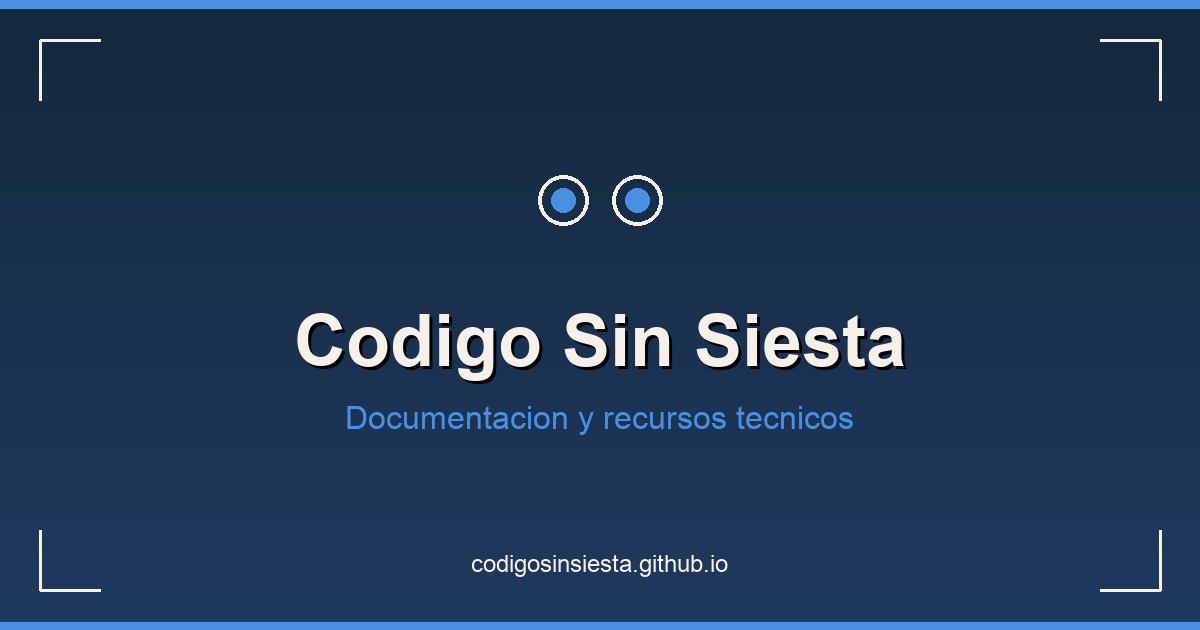
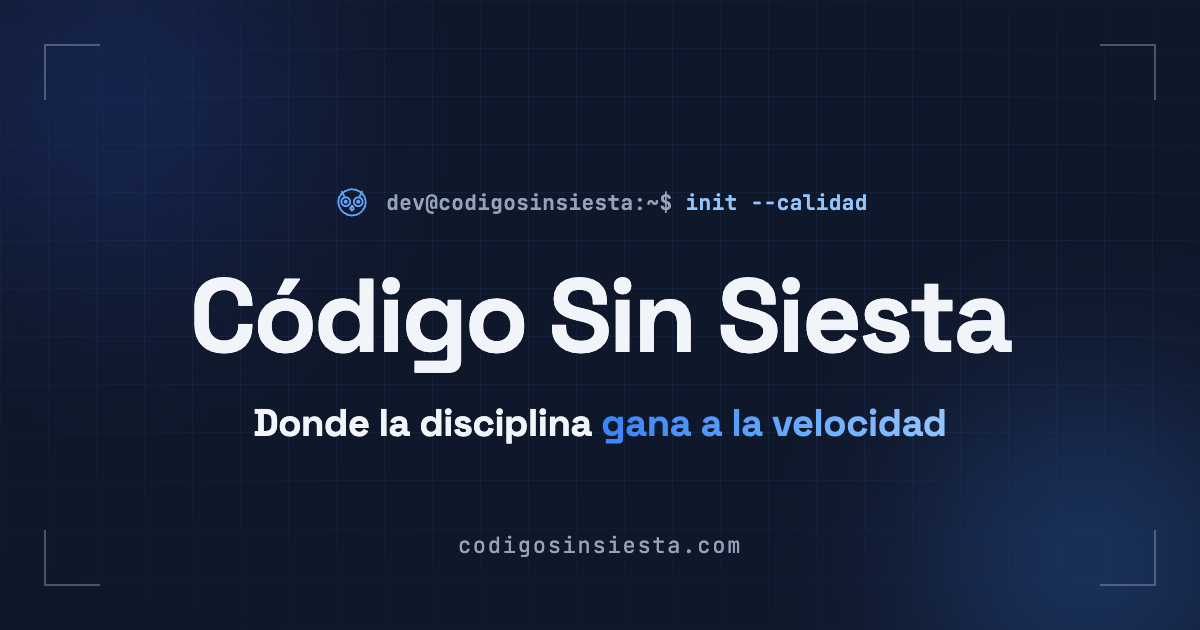
feat: actualiza la tarjeta social (Open Graph) a la identidad V4
La tarjeta og-card.png estaba congelada en la identidad antigua:
marca sin tildes ("Codigo Sin Siesta"), claim incorrecto
("Documentacion y recursos tecnicos") y dominio obsoleto
(codigosinsiesta.github.io en vez de codigosinsiesta.com).

- Regenera public/og-card.png con la identidad "dark blueprint" V4:
  Código Sin Siesta + claim canónico de site.ts + dominio .com,
  logo búho line-art, grid blueprint, Space Grotesk + JetBrains Mono.
- Añade scripts/og-card/ (HTML + render.mjs) como fuente regenerable
  para que la tarjeta no vuelva a quedarse obsoleta. El render usa
  Chrome headless vía CDP esperando document.fonts.ready.

diff --git a/scripts/og-card/og-card.html b/scripts/og-card/og-card.html
@@ -1,0 +1,177 @@
+<!doctype html>
+<html lang="es">
+  <head>
+    <meta charset="utf-8" />
+    <!--
+      Plantilla fuente de la tarjeta social (Open Graph / Twitter card).
+      Render: scripts/og-card/render.mjs → public/og-card.png (1200×630).
+      Identidad: sistema "dark blueprint" V4 (@codigosinsiesta/theme).
+      Textos canónicos de src/data/site.ts — no inventar.
+    -->
+    <link rel="preconnect" href="https://fonts.googleapis.com" />
+    <link rel="preconnect" href="https://fonts.gstatic.com" crossorigin />
+    <link
+      href="https://fonts.googleapis.com/css2?family=Space+Grotesk:wght@500;700;900&family=JetBrains+Mono:wght@400;600&family=Inter:wght@400;500&display=swap"
+      rel="stylesheet"
+    />
+    <style>
+      :root {
+        --fondo: #0f172a;
+        --marino: #0c1e4f;
+        --cobalto: #1e3a8a;
+        --electrico: #3b82f6;
+        --cielo: #60a5fa;
+        --cielo2: #93c5fd;
+        --tinta: #f1f5f9;
+        --tinta2: #cbd5e1;
+        --tinta3: #94a3b8;
+        --borde: #334155;
+      }
+
+      * { margin: 0; padding: 0; box-sizing: border-box; }
+
+      html, body { width: 1200px; height: 630px; }
+
+      body {
+        position: relative;
+        overflow: hidden;
+        background: var(--fondo);
+        font-family: 'Inter', system-ui, sans-serif;
+        color: var(--tinta);
+      }
+
+      /* blueprint grid */
+      .grid {
+        position: absolute;
+        inset: 0;
+        background-image:
+          linear-gradient(rgba(96, 165, 250, 0.07) 1px, transparent 1px),
+          linear-gradient(90deg, rgba(96, 165, 250, 0.07) 1px, transparent 1px);
+        background-size: 48px 48px;
+        mask-image: radial-gradient(ellipse 95% 80% at 50% 42%, #000 35%, transparent 80%);
+        -webkit-mask-image: radial-gradient(ellipse 95% 80% at 50% 42%, #000 35%, transparent 80%);
+      }
+
+      /* glow orbs */
+      .orb {
+        position: absolute;
+        border-radius: 50%;
+        filter: blur(80px);
+        opacity: 0.55;
+      }
+      .orb--1 { width: 520px; height: 520px; left: -140px; top: -160px;
+        background: radial-gradient(circle, var(--cobalto), transparent 70%); }
+      .orb--2 { width: 460px; height: 460px; right: -120px; bottom: -160px;
+        background: radial-gradient(circle, var(--electrico), transparent 70%); opacity: 0.4; }
+
+      /* corner brackets */
+      .bracket {
+        position: absolute;
+        width: 56px;
+        height: 56px;
+        border: 2px solid rgba(148, 163, 184, 0.45);
+      }
+      .bracket--tl { top: 44px; left: 44px; border-right: none; border-bottom: none; }
+      .bracket--tr { top: 44px; right: 44px; border-left: none; border-bottom: none; }
+      .bracket--bl { bottom: 44px; left: 44px; border-right: none; border-top: none; }
+      .bracket--br { bottom: 44px; right: 44px; border-left: none; border-top: none; }
+
+      .stage {
+        position: relative;
+        z-index: 2;
+        height: 100%;
+        display: flex;
+        flex-direction: column;
+        align-items: center;
+        justify-content: center;
+        text-align: center;
+        padding: 0 110px;
+      }
+
+      /* terminal boot line — eco del hero */
+      .boot {
+        display: inline-flex;
+        align-items: center;
+        gap: 14px;
+        font-family: 'JetBrains Mono', monospace;
+        font-size: 21px;
+        font-weight: 600;
+        letter-spacing: 0.02em;
+        color: var(--cielo);
+        margin-bottom: 40px;
+      }
+      .boot .prompt { color: var(--tinta3); }
+      .boot .cmd { color: var(--cielo2); }
+      .owl { width: 40px; height: 40px; color: var(--cielo); }
+
+      h1 {
+        font-family: 'Space Grotesk', sans-serif;
+        font-weight: 900;
+        font-size: 104px;
+        line-height: 1.02;
+        letter-spacing: -0.03em;
+        color: var(--tinta);
+      }
+
+      .claim {
+        margin-top: 30px;
+        font-family: 'Space Grotesk', sans-serif;
+        font-weight: 700;
+        font-size: 38px;
+        letter-spacing: -0.01em;
+      }
+      .hl {
+        background: linear-gradient(90deg, var(--electrico), var(--cielo), var(--cielo2));
+        -webkit-background-clip: text;
+        background-clip: text;
+        color: transparent;
+      }
+
+      .domain {
+        position: absolute;
+        bottom: 70px;
+        left: 0;
+        right: 0;
+        text-align: center;
+        font-family: 'JetBrains Mono', monospace;
+        font-size: 22px;
+        font-weight: 400;
+        letter-spacing: 0.08em;
+        color: var(--tinta3);
+        z-index: 2;
+      }
+    </style>
+  </head>
+  <body>
+    <div class="grid"></div>
+    <div class="orb orb--1"></div>
+    <div class="orb orb--2"></div>
+
+    <span class="bracket bracket--tl"></span>
+    <span class="bracket bracket--tr"></span>
+    <span class="bracket bracket--bl"></span>
+    <span class="bracket bracket--br"></span>
+
+    <div class="stage">
+      <p class="boot">
+        <svg class="owl" viewBox="0 0 64 64" fill="none" stroke="currentColor" stroke-width="3" stroke-linecap="round" stroke-linejoin="round" aria-hidden="true">
+          <path d="M16 14 L20 22"></path>
+          <path d="M48 14 L44 22"></path>
+          <path d="M10 30 C 10 18, 22 10, 32 10 C 42 10, 54 18, 54 30 C 54 42, 44 52, 32 52 C 20 52, 10 42, 10 30 Z"></path>
+          <circle cx="22" cy="30" r="7"></circle>
+          <circle cx="42" cy="30" r="7"></circle>
+          <circle cx="22" cy="30" r="1.8" fill="currentColor"></circle>
+          <circle cx="42" cy="30" r="1.8" fill="currentColor"></circle>
+          <path d="M32 36 L29 41 L32 44 L35 41 Z"></path>
+        </svg>
+        <span><span class="prompt">dev@codigosinsiesta:~$</span> <span class="cmd">init --calidad</span></span>
+      </p>
+
+      <h1>Código Sin Siesta</h1>
+
+      <p class="claim">Donde la disciplina <span class="hl">gana a la velocidad</span></p>
+    </div>
+
+    <p class="domain">codigosinsiesta.com</p>
+  </body>
+</html>